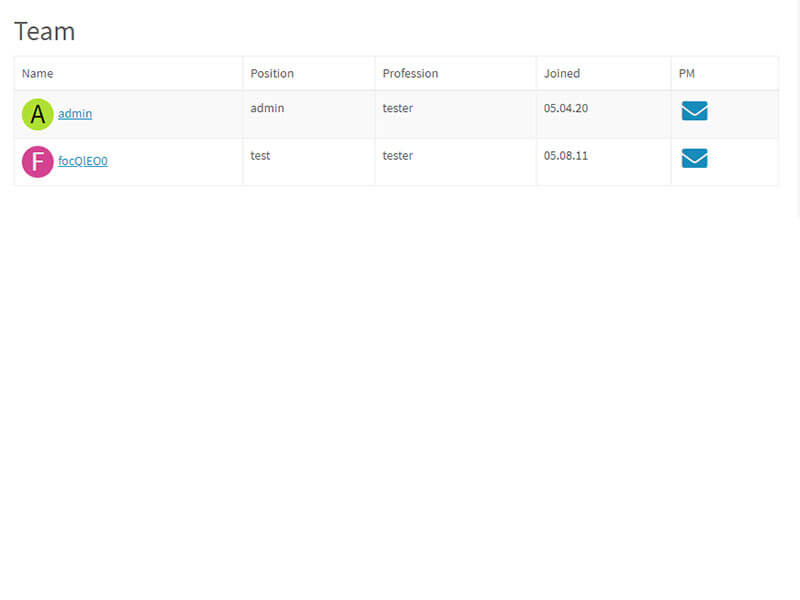
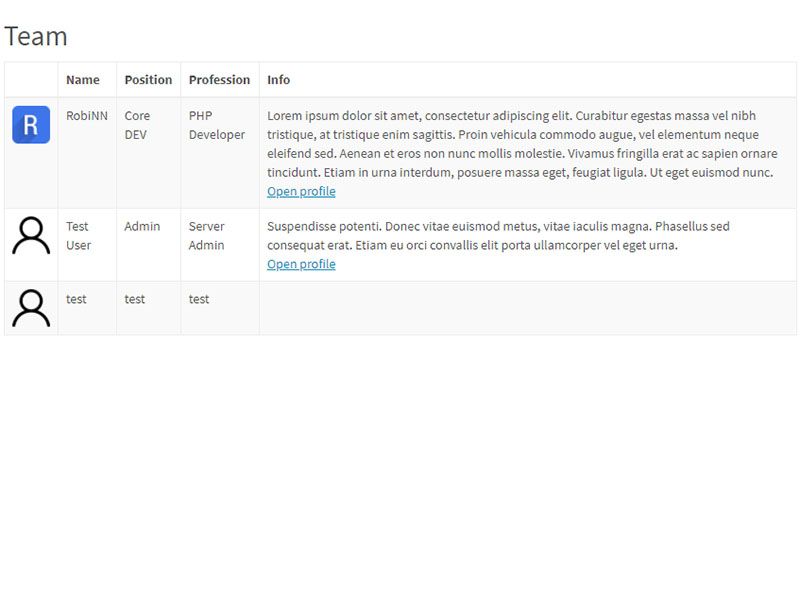
Update team

diff --git a/infusions/team/admin.php b/infusions/team/admin.php
@@ -20,8 +20,8 @@ require_once THEMES.'templates/admin_header.php';
 
 pageAccess('TM');
 
-
 $locale = fusion_get_locale('', TM_LOCALE);
+$aidlink = fusion_get_aidlink();
 
 add_to_title($locale['tm_title_admin']);
 
@@ -32,8 +32,12 @@ opentable($locale['tm_title_admin']);
 $data = [
     'team_id'    => 0,
     'userid'     => 0,
+    'name'       => '',
     'position'   => '',
     'profession' => '',
+    'info'       => '',
+    'image'      => '',
+    'item_order' => 0,
     'language'   => LANGUAGE
 ];
 
@@ -60,9 +64,17 @@ $result = dbquery("SELECT * FROM ".DB_TEAM." WHERE team_id='".(isset($_GET['team
 if (isset($_GET['section']) && $_GET['section'] == 'back') redirect(FUSION_SELF.fusion_get_aidlink());
 
 if ((isset($_GET['action']) && $_GET['action'] == 'delete') && (isset($_GET['team_id']) && isnum($_GET['team_id']))) {
-    if (dbrows($result)) dbquery("DELETE FROM ".DB_TEAM." WHERE team_id='".intval($_GET['team_id'])."'");
+    if (dbrows($result)) {
+
+        if (!empty($data['image']) && file_exists(TEAM.'images/'.$data['image'])) {
+            @unlink(TEAM.'images/'.$data['image']);
+        }
+
+        dbquery("DELETE FROM ".DB_TEAM." WHERE team_id='".intval($_GET['team_id'])."'");
+    }
+
     addNotice('success', $locale['tm_011']);
-    redirect(FUSION_SELF.fusion_get_aidlink());
+    redirect(FUSION_SELF.$aidlink);
 }
 
 echo opentab($tab, $_GET['section'], 'teamadmin', TRUE, 'nav-tabs m-b-20');
@@ -78,39 +90,118 @@ switch ($_GET['section']) {
             $data = [
                 'team_id'    => form_sanitizer($_POST['team_id'], 0, 'team_id'),
                 'userid'     => form_sanitizer($_POST['userid'], '', 'userid'),
+                'name'       => form_sanitizer($_POST['name'], '', 'name'),
                 'position'   => form_sanitizer($_POST['position'], '', 'position'),
                 'profession' => form_sanitizer($_POST['profession'], '', 'profession'),
+                'info'       => form_sanitizer($_POST['info'], '', 'info'),
+                'image'      => isset($_POST['image']) ? form_sanitizer($_POST['image'], '', 'image') : '',
+                'item_order' => form_sanitizer($_POST['item_order'], 0, 'item_order'),
                 'language'   => form_sanitizer($_POST['language'], '', 'language')
             ];
+
+            if (\defender::safe() && isset($_POST['delete_image']) && isset($_GET['team_id']) && isnum($_GET['team_id'])) {
+                $result = dbquery("SELECT image FROM ".DB_TEAM." WHERE team_id='".$_GET['team_id']."'");
+                if (dbrows($result)) {
+                    $data += dbarray($result);
+                    if (!empty($data['image']) && file_exists(TEAM.'images/'.$data['image'])) {
+                        @unlink(TEAM.'images/'.$data['image']);
+                    }
+                }
+
+                $data['image'] = '';
+            } else if (\defender::safe() && !empty($_FILES['image']['name']) && is_uploaded_file($_FILES['image']['tmp_name'])) {
+                $upload = form_sanitizer($_FILES['image'], '', 'image');
+                if (empty($upload['error'])) {
+                    $data['image'] = $upload['image_name'];
+                }
+            }
+
+            if (empty($data['item_order'])) {
+                $data['item_order'] = $data['item_order'] + 1;
+                $result3 = dbquery("SELECT item_order FROM ".DB_TEAM." ORDER BY item_order DESC LIMIT 1");
+
+                if (dbrows($result3) != 0) {
+                    $data3 = dbarray($result3);
+                    $data['item_order'] = $data3['item_order'] + 1;
+                } else {
+                    $data['item_order'] = 1;
+                }
+            }
 
             if (dbcount('(team_id)', DB_TEAM, "team_id='".$data['team_id']."'")) {
                 dbquery_insert(DB_TEAM, $data, 'update');
                 if (\defender::safe()) {
                     addNotice('success', $locale['tm_010']);
-                    redirect(FUSION_SELF.fusion_get_aidlink());
+                    redirect(FUSION_SELF.$aidlink);
                 }
             } else {
                 dbquery_insert(DB_TEAM, $data, 'save');
                 if (\defender::safe()) {
                     addNotice('success', $locale['tm_009']);
-                    redirect(FUSION_SELF.fusion_get_aidlink());
+                    redirect(FUSION_SELF.$aidlink);
                 }
             }
+        }
+
+        if (isset($_GET['move']) && isset($_GET['action']) && $_GET['action'] == 'edit' && isset($_GET['team_id']) && isnum($_GET['team_id'])) {
+            $data2 = dbarray(dbquery("SELECT team_id, item_order FROM ".DB_TEAM." WHERE team_id = '".intval($_GET['team_id'])."'"));
+
+            if ($_GET['move'] == 'md') {
+                dbquery("UPDATE ".DB_TEAM." SET item_order = item_order - 1 WHERE item_order = '".($data2['item_order'] + 1)."'");
+                dbquery("UPDATE ".DB_TEAM." SET item_order = item_order + 1 WHERE team_id = '".$data2['team_id']."'");
+            }
+
+            if ($_GET['move'] == 'mup') {
+                dbquery("UPDATE ".DB_TEAM." SET item_order = item_order + 1 WHERE item_order = '".($data2['item_order'] - 1)."'");
+                dbquery("UPDATE ".DB_TEAM." SET item_order = item_order - 1 WHERE team_id = '".$data2['team_id']."'");
+            }
+
+            redirect(FUSION_SELF.$aidlink);
         }
 
         if ((isset($_GET['action']) && $_GET['action'] == 'edit') && (isset($_GET['team_id']) && isnum($_GET['team_id']))) {
             if (dbrows($result)) {
                 $data = dbarray($result);
             } else {
-                redirect(FUSION_SELF.fusion_get_aidlink());
+                redirect(FUSION_SELF.$aidlink);
             }
         }
 
-        echo openform('teamform', 'post', FUSION_REQUEST);
+        echo openform('teamform', 'post', FUSION_REQUEST, ['enctype' => TRUE]);
         echo form_hidden('team_id', '', $data['team_id']);
+        echo form_hidden('item_order', '', $data['item_order']);
+        echo form_text('name', $locale['tm_001'], $data['name'], ['inline' => TRUE]);
         echo form_user_select('userid', $locale['tm_008'], $data['userid'], ['inline' => TRUE, 'allow_self' => TRUE]);
         echo form_text('position', $locale['tm_002'], $data['position'], ['inline' => TRUE]);
         echo form_text('profession', $locale['tm_003'], $data['profession'], ['inline' => TRUE]);
+
+        echo form_textarea('info', $locale['tm_004'], $data['info'], ['inline' => TRUE]);
+
+        if (!empty($data['image'])) {
+            echo '<div class="clearfix list-group-item m-b-20">';
+            echo '<div class="pull-left m-r-10">';
+            echo thumbnail(TEAM.'images/'.$data['image'], '80px');
+            echo '</div>';
+            echo '<div class="overflow-hide">';
+            echo '<span class="text-dark strong">'.$locale['tm_005'].'</span>';
+            echo form_checkbox('delete_image', $locale['delete'], '');
+            echo form_hidden('image', '', $data['image']);
+            echo '</div>';
+            echo '</div>';
+        } else {
+            echo form_fileinput('image', $locale['tm_005'], '', [
+                'upload_path'     => TEAM.'images/',
+                'max_width'       => 400,
+                'max_height'      => 400,
+                'max_byte'        => 1048576,
+                'type'            => 'image',
+                'delete_original' => FALSE,
+                'width'           => '100%',
+                'inline'          => TRUE,
+                'template'        => 'thumbnail',
+                'ext_tip'         => 'Max: 400x400px, 1MB'
+            ]);
+        }
 
         if (multilang_table('TM')) {
             echo form_select('language[]', $locale['global_ML100'], $data['language'], [
@@ -128,31 +219,33 @@ switch ($_GET['section']) {
         echo closeform();
         break;
     default:
-        $result = dbquery("SELECT t.*, u.user_id, u.user_name, u.user_status, u.user_avatar, u.user_level, u.user_joined
-            FROM ".DB_TEAM." t
-            LEFT JOIN ".DB_USERS." u ON t.userid=u.user_id
-            ".(multilang_table('TM') ? " WHERE ".in_group('language', LANGUAGE) : '')
-        );
+        $result = dbquery("SELECT * FROM ".DB_TEAM." ".(multilang_table('TM') ? " WHERE ".in_group('language', LANGUAGE) : '')." ORDER BY item_order ASC");
 
         echo '<div class="table-responsive"><table class="table table-striped table-bordered">';
             echo '<thead><tr>';
-                echo '<td>'.$locale['tm_001'].'</td>';
-                echo '<td>'.$locale['tm_002'].'</td>';
-                echo '<td>'.$locale['tm_003'].'</td>';
-                echo '<td>'.$locale['tm_004'].'</td>';
-                echo '<td>'.$locale['tm_006'].'</td>';
+                echo '<th>'.$locale['tm_001'].'</th>';
+                echo '<th>'.$locale['tm_002'].'</th>';
+                echo '<th>'.$locale['tm_003'].'</th>';
+                echo '<th>'.$locale['order'].'</th>';
+                echo '<th>'.$locale['actions'].'</th>';
             echo '</tr></thead>';
 
             if (dbrows($result)) {
                 while ($data = dbarray($result)) {
                     echo '<tr>';
-                        echo '<td>';
-                            echo display_avatar($data, '20px', '', false, 'img-circle m-r-5');
-                            echo profile_link($data['user_id'], $data['user_name'], $data['user_status']);
-                        echo '</td>';
+                        echo '<td>'.$data['name'].'</td>';
                         echo '<td>'.$data['position'].'</td>';
                         echo '<td>'.$data['profession'].'</td>';
-                        echo '<td>'.showdate('shortdate', $data['user_joined']).'</td>';
+                        echo '<td>';
+                            if ($data['item_order'] == 1) {
+                                echo '<a href="'.FUSION_SELF.$aidlink.'&section=form&action=edit&move=md&team_id='.$data['team_id'].'"><i class="fa fa-lg fa-angle-down"></i></a>';
+                            } else if ($data['item_order'] == dbrows($result)) {
+                                echo '<a href="'.FUSION_SELF.$aidlink.'&section=form&action=edit&move=mup&team_id='.$data['team_id'].'"><i class="fa fa-lg fa-angle-up"></i></a>';
+                            } else {
+                                echo '<a href="'.FUSION_SELF.$aidlink.'&section=form&action=edit&move=mup&team_id='.$data['team_id'].'"><i class="fa fa-lg fa-angle-up m-r-10"></i></a>';
+                                echo '<a href="'.FUSION_SELF.$aidlink.'&section=form&action=edit&move=md&team_id='.$data['team_id'].'"><i class="fa fa-lg fa-angle-down"></i></a>';
+                            }
+                        echo '</td>';
                         echo '<td>';
                             echo '<a href="'.FUSION_SELF.fusion_get_aidlink().'&section=form&action=edit&team_id='.$data['team_id'].'">'.$locale['edit'].'</a> | ';
                             echo '<a href="'.FUSION_SELF.fusion_get_aidlink().'&action=delete&team_id='.$data['team_id'].'">'.$locale['delete'].'</a>';
@@ -160,7 +253,7 @@ switch ($_GET['section']) {
                     echo '</tr>';
                 }
             } else {
-                echo '<tr><td colspan="6" class="text-center">'.$locale['tm_007'].'</td></tr>';
+                echo '<tr><td colspan="5" class="text-center">'.$locale['tm_007'].'</td></tr>';
             }
         echo '</table></div>';
         break;

diff --git a/infusions/team/templates/team.php b/infusions/team/templates/team.php
@@ -25,24 +25,26 @@ if (!function_exists('render_team')) {
 
         echo '<div class="table-responsive"><table class="table table-striped table-bordered">';
         echo '<thead><tr>';
-        echo '<td>'.$locale['tm_001'].'</td>';
-        echo '<td>'.$locale['tm_002'].'</td>';
-        echo '<td>'.$locale['tm_003'].'</td>';
-        echo '<td>'.$locale['tm_004'].'</td>';
-        if (iMEMBER) echo '<td>'.$locale['tm_005'].'</td>';
+            echo '<th></th>';
+            echo '<th>'.$locale['tm_001'].'</th>';
+            echo '<th>'.$locale['tm_002'].'</th>';
+            echo '<th>'.$locale['tm_003'].'</th>';
+            echo '<th>'.$locale['tm_004'].'</th>';
         echo '</tr></thead>';
 
         if (!empty($info)) {
             foreach ($info as $data) {
                 echo '<tr>';
-                    echo '<td>';
-                    echo display_avatar($data, '35px', '', false, 'img-circle m-r-5');
-                    echo profile_link($data['user_id'], $data['user_name'], $data['user_status']);
-                    echo '</td>';
+                    echo '<td><img style="width:40px;height:40px;" src="'.$data['photo'].'" alt="'.$data['name'].'"></td>';
+                    echo '<td>'.$data['name'].'</td>';
                     echo '<td>'.$data['position'].'</td>';
                     echo '<td>'.$data['profession'].'</td>';
-                    echo '<td>'.showdate('shortdate', $data['user_joined']).'</td>';
-                    if (iMEMBER) echo '<td><a href="'.BASEDIR.'messages.php?msg_send='.$data['user_id'].'"><i class="fa fa-envelope fa-fw fa-2x"></i></a></td>';
+                    echo '<td>';
+                        echo $data['info'];
+                        if (!empty($data['user_data'])) {
+                            echo '<a class="display-block" href="'.BASEDIR.'profile.php?lookup='.$data['user_data']['user_id'].'">'.$locale['tm_006'].'</a>';
+                        }
+                    echo '</td>';
                 echo '</tr>';
             }
         } else {

diff --git a/infusions/team/infusion.php b/infusions/team/infusion.php
@@ -22,7 +22,7 @@ $locale = fusion_get_locale('', TM_LOCALE);
 // Infusion general information
 $inf_title       = $locale['tm_title'];
 $inf_description = $locale['tm_desc'];
-$inf_version     = '1.0.2';
+$inf_version     = '2.0';
 $inf_developer   = 'RobiNN';
 $inf_email       = 'robinn@php-fusion.eu';
 $inf_weburl      = 'https://github.com/RobiNN1';
@@ -33,8 +33,12 @@ $inf_image       = 'team.svg';
 $inf_newtable[] = DB_TEAM." (
     team_id MEDIUMINT(8) UNSIGNED NOT NULL AUTO_INCREMENT,
     userid MEDIUMINT(8) NOT NULL DEFAULT 0,
+    name VARCHAR(50) NOT NULL DEFAULT '',
     position VARCHAR(50) NOT NULL DEFAULT '',
     profession VARCHAR(50) NOT NULL DEFAULT '',
+    info TEXT NOT NULL,
+    image VARCHAR(120) NOT NULL,
+    item_order SMALLINT(3) UNSIGNED NOT NULL DEFAULT '0',
     language VARCHAR(50) NOT NULL DEFAULT '".LANGUAGE."',
     PRIMARY KEY (team_id)
 ) ENGINE=MyISAM DEFAULT CHARSET=UTF8 COLLATE=utf8_unicode_ci";
@@ -89,3 +93,4 @@ $inf_droptable[] = DB_TEAM;
 $inf_deldbrow[] = DB_ADMIN." WHERE admin_rights='TM'";
 $inf_deldbrow[] = DB_LANGUAGE_TABLES." WHERE mlt_rights='TM'";
 $inf_deldbrow[] = DB_SITE_LINKS." WHERE link_url='infusions/team/team.php'";
+$inf_delfiles[] = TEAM.'images/';

diff --git a/infusions/team/team.php b/infusions/team/team.php
@@ -31,14 +31,12 @@ add_breadcrumb(['link' => INFUSIONS.'team/team.php', 'title' => $locale['tm_titl
 
 $info = [];
 
-$result = dbquery("SELECT t.*, u.user_id, u.user_name, u.user_status, u.user_avatar, u.user_level, u.user_joined
-    FROM ".DB_TEAM." t
-    LEFT JOIN ".DB_USERS." u ON t.userid=u.user_id
-    ".(multilang_table('TM') ? " WHERE ".in_group('t.language', LANGUAGE) : '')
-);
+$result = dbquery("SELECT * FROM ".DB_TEAM.(multilang_table('TM') ? " WHERE ".in_group('language', LANGUAGE) : '')." ORDER BY item_order ASC");
 
 if (dbrows($result)) {
     while ($data = dbarray($result)) {
+        $data['photo'] = TEAM.'images/'.(!empty($data['image']) && file_exists(TEAM.'images/'.$data['image']) ? $data['image'] : 'nophoto.png');
+        $data['user_data'] = fusion_get_user($data['userid']);
         $info[] = $data;
     }
 }

diff --git a/infusions/team/infusion_db.php b/infusions/team/infusion_db.php
@@ -34,3 +34,17 @@ if (!defined('DB_TEAM')) {
 }
 
 \PHPFusion\Admins::getInstance()->setAdminPageIcons('TM', '<i class="admin-ico fa fa-fw fa-users"></i>');
+
+\PHPFusion\Admins::getInstance()->setFolderPermissions('team', [
+    'infusions/team/images/' => TRUE
+]);
+
+if (method_exists(\PHPFusion\Admins::getInstance(), 'setCustomFolder')) {
+    \PHPFusion\Admins::getInstance()->setCustomFolder('TM', [
+        [
+            'path'  => TEAM.'images/',
+            'URL'   => fusion_get_settings('siteurl').'infusions/team/images/',
+            'alias' => 'team'
+        ]
+    ]);
+}

diff --git a/infusions/team/locale/Slovak/team.php b/infusions/team/locale/Slovak/team.php
@@ -21,9 +21,9 @@ $locale['tm_title_admin'] = 'Tím - administrácia';
 $locale['tm_001'] = 'Meno';
 $locale['tm_002'] = 'Pozícia';
 $locale['tm_003'] = 'Profesia';
-$locale['tm_004'] = 'Dátum registrácie';
-$locale['tm_005'] = 'SS';
-$locale['tm_006'] = 'Akcia';
+$locale['tm_004'] = 'Info';
+$locale['tm_005'] = 'Fotka';
+$locale['tm_006'] = 'Otvoriť profil';
 $locale['tm_007'] = 'Žiadni užívatelia';
 $locale['tm_008'] = 'Vyberte užívateľa';
 $locale['tm_009'] = 'Užívateľ bol pridaný';

diff --git a/infusions/team/locale/Czech/team.php b/infusions/team/locale/Czech/team.php
@@ -21,9 +21,9 @@ $locale['tm_title_admin'] = 'Tým - adminstrace';
 $locale['tm_001'] = 'Jméno';
 $locale['tm_002'] = 'Pozice';
 $locale['tm_003'] = 'Profese';
-$locale['tm_004'] = 'Datum registrace';
-$locale['tm_005'] = 'SZ';
-$locale['tm_006'] = 'Akce';
+$locale['tm_004'] = 'Info';
+$locale['tm_005'] = 'Fotka';
+$locale['tm_006'] = 'Otevřít profil';
 $locale['tm_007'] = 'Žádní uživatelé';
 $locale['tm_008'] = 'Vyberte uživatele';
 $locale['tm_009'] = 'Uživatel byl přidán';

diff --git a/infusions/team/locale/English/team.php b/infusions/team/locale/English/team.php
@@ -21,9 +21,9 @@ $locale['tm_title_admin'] = 'Team Administration';
 $locale['tm_001'] = 'Name';
 $locale['tm_002'] = 'Position';
 $locale['tm_003'] = 'Profession';
-$locale['tm_004'] = 'Joined';
-$locale['tm_005'] = 'PM';
-$locale['tm_006'] = 'Actions';
+$locale['tm_004'] = 'Info';
+$locale['tm_005'] = 'Photo';
+$locale['tm_006'] = 'Open profile';
 $locale['tm_007'] = 'No users';
 $locale['tm_008'] = 'Select user';
 $locale['tm_009'] = 'User added';

diff --git a/infusions/team/README.md b/infusions/team/README.md
@@ -1,6 +1,6 @@
 # Team List
 Simple Team Page
 
-![Version](https://img.shields.io/badge/Version-1.0.2-blue.svg)
+![Version](https://img.shields.io/badge/Version-2.0-blue.svg)
 
 ![Preview](screenshot.jpg)
